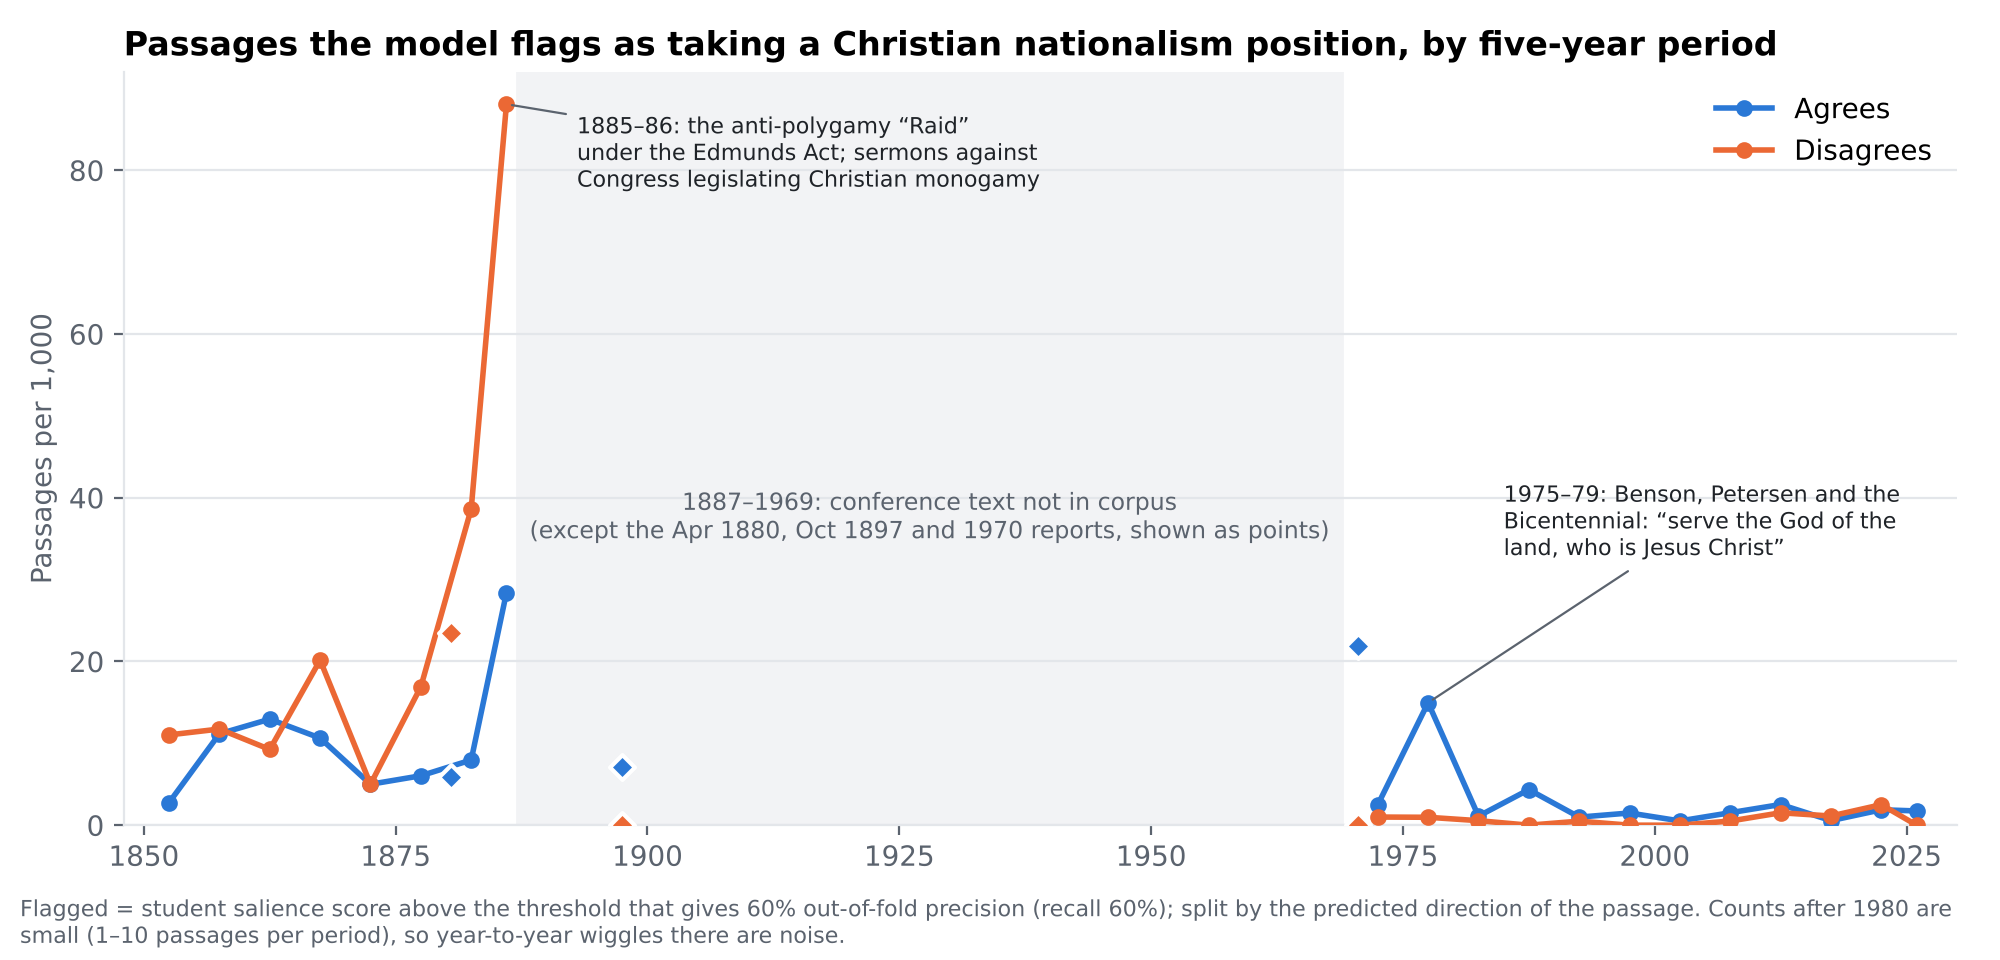
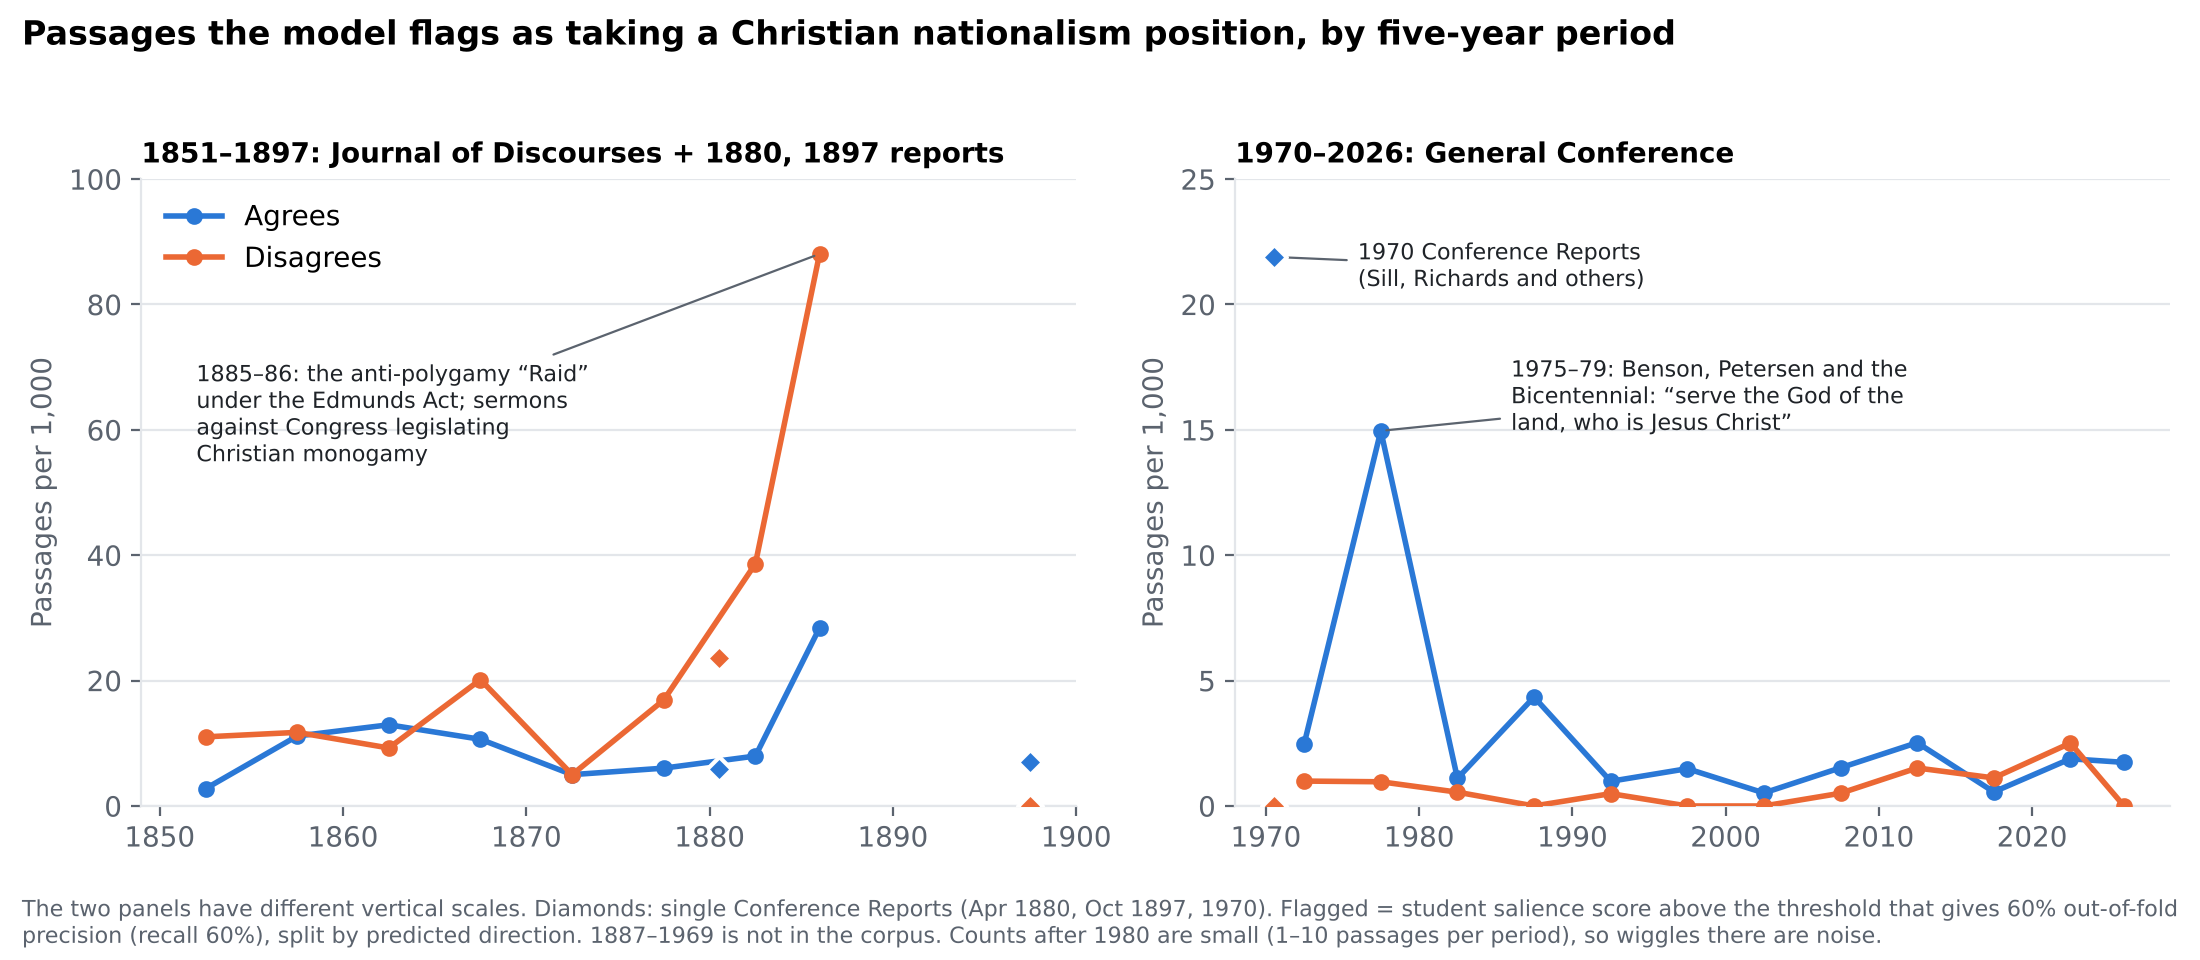
Split line charts into 1851-97 and 1970-2026 panels with separate y scales
Claude-Session: https://claude.ai/code/session_014sQdAY4oaK7qZso7u32X8Y

diff --git a/ldscn/pipeline/cn_figs.py b/ldscn/pipeline/cn_figs.py
@@ -46,35 +46,49 @@ note(fig, "Share of ~300-word passages that take a position on any of PRRI's fiv
 fig.tight_layout(rect=(0, 0.07, 1, 1))
 fig.savefig(os.path.join(figs, "fig1_agree_disagree_by_era.png"), dpi=200)
 
-# ---- Fig 2: flagged passages per 1,000 by five-year period ----
+# ---- Fig 2: flagged passages per 1,000 by five-year period, 19th century and modern era on separate scales ----
 per = pd.read_csv(os.path.join(out, "cn_by_period.csv"))
 per["x"] = per.period.str[:4].astype(int) + 2.5
 per.loc[per.period.isin(["1885", "2025"]), "x"] -= 1.5  # these periods cover only two years (1885-86, 2025-26)
 cr = per.period.str.contains("CR")
 per.loc[cr, "x"] = per.loc[cr, "period"].str[:4].astype(int) + 0.5
-reg = per[~cr]
-fig, ax = plt.subplots(figsize=(10, 4.8))
-ax.axvspan(1887, 1969, color="#f2f3f5", zorder=0)
-ax.text(1928, 41, "1887–1969: conference text not in corpus\n(except the Apr 1880, Oct 1897 and 1970 reports, shown as points)",
-        ha="center", va="top", fontsize=8.5, color=MUTED)
-for col, c, lab in (("flag_agree_per1000", BLUE, "Agrees"), ("flag_disagree_per1000", ORANGE, "Disagrees")):
-    for seg in (reg[reg.x < 1890], reg[reg.x > 1965]):
-        ax.plot(seg.x, seg[col], color=c, lw=2, marker="o", ms=5, zorder=3, label=lab if seg.x.min() < 1890 else None)
-    ax.scatter(per.loc[cr, "x"], per.loc[cr, col], color=c, marker="D", s=40, zorder=4, edgecolor=SURF, linewidth=1.5)
-ax.set_ylim(0, 92)
-ax.set_xlim(1848, 2030)
-ax.set_ylabel("Passages per 1,000")
-ax.set_title("Passages the model flags as taking a Christian nationalism position, by five-year period")
-ax.legend(frameon=False, loc="upper right")
-pk = reg.loc[reg.flag_disagree_per1000.idxmax()]
-ax.annotate("1885–86: the anti-polygamy “Raid”\nunder the Edmunds Act; sermons against\nCongress legislating Christian monogamy", (pk.x, pk.flag_disagree_per1000), (1893, 78),
-            fontsize=8, color=INK, arrowprops=dict(arrowstyle="-", color=MUTED, lw=0.8))
-b = reg[reg.period == "1975"].iloc[0]
-ax.annotate("1975–79: Benson, Petersen and the\nBicentennial: “serve the God of the\nland, who is Jesus Christ”", (b.x, b.flag_agree_per1000), (1985, 33),
-            fontsize=8, color=INK, arrowprops=dict(arrowstyle="-", color=MUTED, lw=0.8))
-note(fig, "Flagged = student salience score above the threshold that gives 60% out-of-fold precision (recall 60%); split by the predicted direction of the "
-          "passage. Counts after 1980 are small (1–10 passages per period), so year-to-year wiggles there are noise.")
-fig.tight_layout(rect=(0, 0.06, 1, 1))
+per["old"] = per.x < 1950
+SPANS = ((True, "1851–1897: Journal of Discourses + 1880, 1897 reports", (1849, 1900)),
+         (False, "1970–2026: General Conference", (1968, 2029)))
+
+
+def era_panel(ax, old, col, c, lab=None, scale=1, marker="o"):
+    d = per[per.old == old]
+    reg_, crd = d[~d.period.str.contains("CR")], d[d.period.str.contains("CR")]
+    ax.plot(reg_.x, scale * reg_[col], color=c, lw=2, marker=marker, ms=5 if marker else 0, zorder=3, label=lab)
+    ax.scatter(crd.x, scale * crd[col], color=c, marker="D", s=40, zorder=4, edgecolor=SURF, linewidth=1.5)
+
+
+fig, axs = plt.subplots(1, 2, figsize=(11, 4.8))
+for ax, (old, title, xl) in zip(axs, SPANS):
+    for col, c, lab in (("flag_agree_per1000", BLUE, "Agrees"), ("flag_disagree_per1000", ORANGE, "Disagrees")):
+        era_panel(ax, old, col, c, lab)
+    ax.set_xlim(*xl)
+    ax.set_ylim(0, None)
+    ax.set_title(title, fontsize=10)
+    ax.set_ylabel("Passages per 1,000")
+axs[0].set_ylim(0, 100)
+axs[1].set_ylim(0, 25)
+axs[0].legend(frameon=False, loc="upper left")
+pk = per.loc[per.flag_disagree_per1000.idxmax()]
+axs[0].annotate("1885–86: the anti-polygamy “Raid”\nunder the Edmunds Act; sermons\nagainst Congress legislating\nChristian monogamy",
+                (pk.x, pk.flag_disagree_per1000), (1852, 55), fontsize=8, color=INK, arrowprops=dict(arrowstyle="-", color=MUTED, lw=0.8))
+cr70 = per[per.period == "1970 CR"].iloc[0]
+axs[1].annotate("1970 Conference Reports\n(Sill, Richards and others)", (cr70.x, cr70.flag_agree_per1000), (1976, 21.5),
+                fontsize=8, color=INK, va="center", arrowprops=dict(arrowstyle="-", color=MUTED, lw=0.8))
+bb = per[per.period == "1975"].iloc[0]
+axs[1].annotate("1975–79: Benson, Petersen and the\nBicentennial: “serve the God of the\nland, who is Jesus Christ”", (bb.x, bb.flag_agree_per1000), (1986, 15),
+                fontsize=8, color=INK, arrowprops=dict(arrowstyle="-", color=MUTED, lw=0.8))
+fig.suptitle("Passages the model flags as taking a Christian nationalism position, by five-year period", x=0.01, ha="left", fontweight="bold", fontsize=12)
+note(fig, "The two panels have different vertical scales. Diamonds: single Conference Reports (Apr 1880, Oct 1897, 1970). Flagged = student salience score above "
+          "the threshold that gives 60% out-of-fold precision (recall 60%), split by predicted direction. 1887–1969 is not in the corpus. Counts after 1980 are "
+          "small (1–10 passages per period), so wiggles there are noise.")
+fig.tight_layout(rect=(0, 0.08, 1, 0.95))
 fig.savefig(os.path.join(figs, "fig2_flagged_by_period.png"), dpi=200)
 
 # ---- Fig 3: PRRI-equivalent stance among coded passages that address an item ----
@@ -98,20 +112,23 @@ note(fig, "Mean PRRI-equivalent score (1–4) of the item codes in teacher-coded
 fig.tight_layout(rect=(0, 0.05, 1, 1))
 fig.savefig(os.path.join(figs, "fig3_prri_stance_by_era.png"), dpi=200)
 
-# ---- Fig 4: supplemental codes, small multiples ----
-fig, axs = plt.subplots(2, 2, figsize=(10, 6), sharex=True)
-for ax, (c, col, title) in zip(axs.flat, (("THEO", BLUE, "Kingdom of God / Zion theocracy"), ("ANTI", ORANGE, "U.S. as Babylon or persecutor"),
-                                          ("AMER", GREEN, "American civil religion"), ("LIB", GOLD, "Religious liberty for all"))):
-    ax.axvspan(1887, 1969, color="#f2f3f5", zorder=0)
-    for seg in (reg[reg.x < 1890], reg[reg.x > 1965]):
-        ax.plot(seg.x, 100 * seg[c], color=col, lw=2, zorder=3)
-    ax.scatter(per.loc[cr, "x"], 100 * per.loc[cr, c], color=col, marker="D", s=28, zorder=4, edgecolor=SURF, linewidth=1.2)
-    ax.set_title(title, fontsize=10.5)
-    ax.set_ylim(0, None)
-    ax.set_ylabel("% of passages", fontsize=8.5)
+# ---- Fig 4: supplemental codes, small multiples; each era on its own scale ----
+fig, axs = plt.subplots(4, 2, figsize=(10, 10), sharex="col")
+THEMES = (("THEO", BLUE, "Kingdom of God / Zion theocracy"), ("ANTI", ORANGE, "U.S. as Babylon or persecutor"),
+          ("AMER", GREEN, "American civil religion"), ("LIB", GOLD, "Religious liberty for all"))
+for i, (c, col, title) in enumerate(THEMES):
+    for j, (old, span, xl) in enumerate(SPANS):
+        ax = axs[i, j]
+        era_panel(ax, old, c, col, scale=100, marker=None)
+        ax.set_xlim(*xl)
+        ax.set_ylim(0, None)
+        ax.set_title(f"{title}, {'1851–1897' if old else '1970–2026'}", fontsize=9.5)
+        if j == 0:
+            ax.set_ylabel("% of passages", fontsize=8.5)
 fig.suptitle("Related themes, by five-year period", x=0.01, ha="left", fontweight="bold", fontsize=12)
-note(fig, "Mean calibrated student probability that a passage carries each code (AUC 0.87–0.95 against the teacher codes). The calibration has a floor "
-          "of a few percent, so low values overstate rare themes. Grey band: 1887–1969 not in corpus; diamonds: 1880, 1897, 1970 Conference Reports.")
-fig.tight_layout(rect=(0, 0.06, 1, 0.96))
+note(fig, "Left and right columns have different vertical scales. Mean calibrated student probability that a passage carries each code (AUC 0.87–0.95 against "
+          "the teacher codes); the calibration has a floor of a few percent, so low values overstate rare themes. Diamonds: Apr 1880, Oct 1897 and 1970 "
+          "Conference Reports. 1887–1969 is not in the corpus.")
+fig.tight_layout(rect=(0, 0.05, 1, 0.97))
 fig.savefig(os.path.join(figs, "fig4_related_themes.png"), dpi=200)
 print("figures written to", figs)
